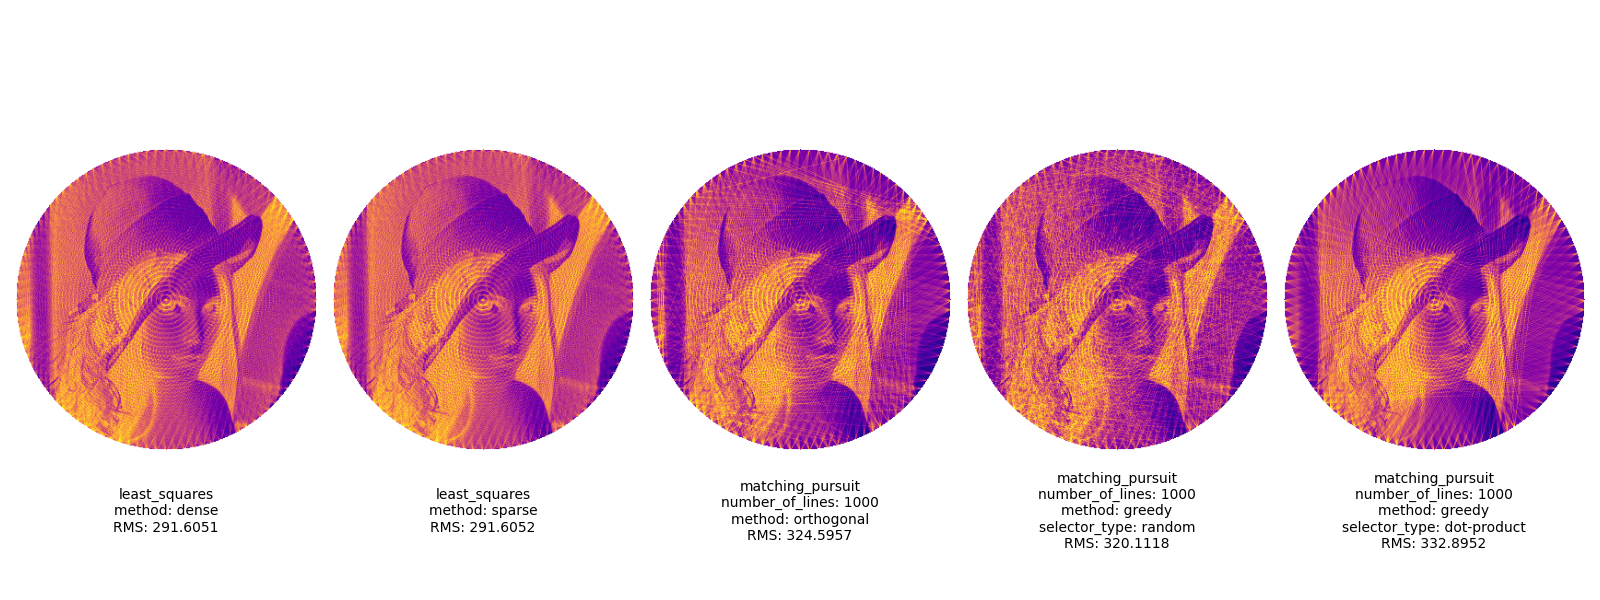
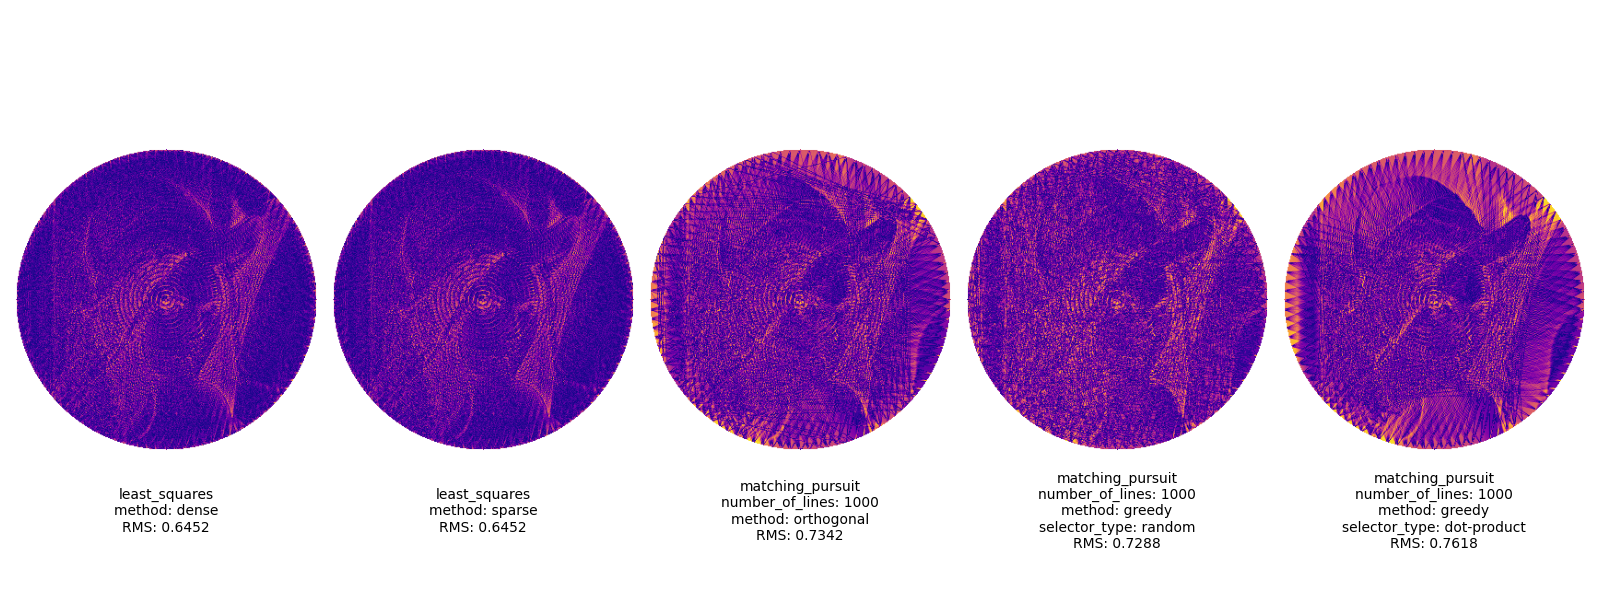
feat: line rendering experiments, fix: image normalization in analysis

diff --git a/stringart/experiments/line_rendering.py b/stringart/experiments/line_rendering.py
@@ -1,20 +1,24 @@
 import os
 from concurrent.futures import ProcessPoolExecutor, as_completed
 from pathlib import Path
-from typing import List
+from typing import Any, List
 
+import matplotlib.pyplot as plt
 import numpy as np
+from skimage.metrics import normalized_root_mse
 from stringart.cli_functions import Configuration
-from stringart.utils.image import ImageWrapper
+from stringart.utils.image import ImageWrapper, crop_image
+from stringart.utils.perf_analyzer import prepare_diff_images
 from stringart.utils.types import CropMode, MatrixRepresentation, Metadata, Rasterization, SolverType
 
 image_path = "../../imgs/lena.png"
 image = ImageWrapper.read_bw(image_path)
 shape = image.shape
 crop_mode: CropMode = "center"
-number_of_pegs = 10
+number_of_pegs = 100
 matrix_representation: MatrixRepresentation = "sparse"
 k = 500
+fontsize = 30
 
 
 class ConfigurationFactory:
@@ -55,33 +59,111 @@ class ConfigurationFactory:
         )
 
 
-def run_config(config: Configuration):
-    return config.run_config_lite()
+def run_config(config: Configuration, index: int):
+    return index, config.run_config_lite()
 
 
 def run_configs(configs: List[Configuration]) -> np.ndarray:
-    results = [[], []]
+    nconf = len(configs) // 2
+    results = [[None for _ in range(nconf)], [None for _ in range(nconf)]]
 
     with ProcessPoolExecutor() as executor:
-        future_to_config = {executor.submit(run_config, config): config for config in configs}
+        future_to_config = {executor.submit(run_config, config, index): config for index, config in enumerate(configs)}
 
         for future in as_completed(future_to_config):
             config = future_to_config[future]
 
-            result = future.result()
+            index, result = future.result()
 
             row_index = 0 if config.rasterization == "bresenham" else 1
-            results[row_index].append(result)
+            results[row_index][index % nconf] = result
 
     return np.array(results)
 
 
-def run_rendering_experiments():
-    pass
+def plot_row(axs: Any, imgs: np.ndarray, labels: List[str] | None, cmap="gray") -> None:
+    for index, ax in enumerate(axs):
+        ax.imshow(imgs[index], cmap=cmap)
+
+        if labels is not None:
+            ax.text(
+                0.5,
+                -0.1,
+                f"{labels[index]}",
+                ha="center",
+                va="center",
+                transform=ax.transAxes,
+                fontsize=fontsize,
+            )
 
 
-def analyze_experiments():
-    pass
+def analyze_results(src: np.ndarray, results: np.ndarray, cmap="gray", cmap_diff="inferno") -> None:
+    src = crop_image(src, crop_mode)
+    diff_images = ImageWrapper.scale_image(np.abs(src - ImageWrapper.scale_image(results)))
+    diff_images = np.array(
+        [
+            prepare_diff_images(list(diff_images[0]), crop_mode, cmap_diff),
+            prepare_diff_images(list(diff_images[1]), crop_mode, cmap_diff),
+        ]
+    )
+    rmses = [
+        [normalized_root_mse(src, ImageWrapper.scale_image(test_image)) for test_image in results[0]],
+        [normalized_root_mse(src, ImageWrapper.scale_image(test_image)) for test_image in results[1]],
+    ]
+    src = ImageWrapper.apply_alpha_map_bw_to_rgba(src, ImageWrapper.alpha_map(src, crop_mode))
+
+    fig, axs = plt.subplots(5, 6, figsize=(32, 28.8), constrained_layout=True)
+
+    for row in axs:
+        for ax in row:
+            ax.axis("off")
+
+    axs[0, 0].imshow(src, cmap=cmap)
+    axs[0, 0].text(
+        0.5,
+        -0.1,
+        f"Target Image",
+        ha="center",
+        va="center",
+        transform=axs[0, 0].transAxes,
+        fontsize=fontsize,
+    )
+
+    def get_rms(row, column):
+        return f"{rmses[row][column]:.4f}"
+
+    plot_row(axs[1], results[0], labels=None, cmap=cmap)
+    plot_row(
+        axs[2],
+        diff_images[0],
+        labels=[
+            f"(a) RMS = {get_rms(0, 0)}",
+            f"(b) RMS = {get_rms(0, 1)}",
+            f"(c) RMS = {get_rms(0, 2)}",
+            f"(d) RMS = {get_rms(0, 3)}",
+            f"(e) RMS = {get_rms(0, 4)}",
+            f"(f) RMS = {get_rms(0, 5)}",
+        ],
+        cmap=cmap_diff,
+    )
+
+    plot_row(axs[3], results[1], labels=None, cmap=cmap)
+    plot_row(
+        axs[4],
+        diff_images[1],
+        labels=[
+            f"(g) RMS = {get_rms(1, 0)}",
+            f"(h) RMS = {get_rms(1, 1)}",
+            f"(i) RMS = {get_rms(1, 2)}",
+            f"(j) RMS = {get_rms(1, 3)}",
+            f"(k) RMS = {get_rms(1, 4)}",
+            f"(l) RMS = {get_rms(1, 5)}",
+        ],
+        cmap=cmap_diff,
+    )
+
+    fig.show()
+    fig.savefig("../../outputs/experiments/line_rendering_comparative_analysis.png")
 
 
 def main():
@@ -110,7 +192,7 @@ def main():
     # fmt: on
 
     results = run_configs(configs)
-    print(results.shape)
+    analyze_results(1 - image, results)  # invert image back to normal bw
 
 
 if __name__ == "__main__":

diff --git a/stringart/utils/perf_analyzer.py b/stringart/utils/perf_analyzer.py
@@ -9,6 +9,7 @@ from typing import Callable, List
 
 import matplotlib.pyplot as plt
 import numpy as np
+from matplotlib.colors import Colormap
 from skimage import io
 from skimage.metrics import normalized_root_mse
 from stringart.solver import Solver
@@ -306,7 +307,8 @@ class Benchmark:
         directory = self.PLOTS_PATH / dirname
         os.makedirs(directory, exist_ok=True)
 
-        output_images = [benchmark.output_image for benchmark in benchmarks]
+        # images are scaled in [0, 1] range because the solvers return them in range [0, 255]
+        output_images = [ImageWrapper.scale_image(benchmark.output_image) for benchmark in benchmarks]
         ground_truth_image = crop_image(ground_truth_image, self.crop_mode)
 
         labels = [
@@ -316,10 +318,8 @@ class Benchmark:
 
         # plot diff images and rmses
         rmses = [normalized_root_mse(ground_truth_image, test_image) for test_image in output_images]
-        # images are scaled in [0, 1] range because the solvers return them in range [0, 255]
         diff_images = [
-            ImageWrapper.scale_image(ground_truth_image - ImageWrapper.scale_image(test_image))
-            for test_image in output_images
+            ImageWrapper.scale_image(np.abs(ground_truth_image - test_image)) for test_image in output_images
         ]
         diff_images = prepare_diff_images(diff_images, self.crop_mode)
 
@@ -370,7 +370,9 @@ class Benchmark:
         plot_bar_graph("Memory Usage", "Memory (MB)", memory_size, "orange")
 
 
-def prepare_diff_images(diff_images: list[np.ndarray], crop_mode: CropMode) -> list[np.ndarray]:
+def prepare_diff_images(
+    diff_images: list[np.ndarray], crop_mode: CropMode, colormap: str | Colormap = "plasma"
+) -> list[np.ndarray]:
     """Processes a list of difference images by applying an alpha map and colormap to each image, converting them to RGBA.
 
     Parameters
@@ -379,6 +381,8 @@ def prepare_diff_images(diff_images: list[np.ndarray], crop_mode: CropMode) -> l
         A list of 2D NumPy arrays (height, width) representing difference images. Each image should be in black-and-white (grayscale).
     crop_mode : CropMode
         The cropping mode that was used on the diff_images.
+    colormap : str or matplotlib.colors.Colormap, optional
+        The name of the Matplotlib colormap to apply or a Colormap object. Default is 'plasma'.
 
     Returns
     -------
@@ -387,12 +391,13 @@ def prepare_diff_images(diff_images: list[np.ndarray], crop_mode: CropMode) -> l
         red, green, and blue channels updated with a colormap (plasma), and the alpha channel applied from the corresponding
         alpha map based on the mode.
     """
+    cmap = plt.get_cmap(colormap) if isinstance(colormap, str) else colormap
 
     def apply_cmap_bw_to_rgb(rgba_image: np.ndarray) -> np.ndarray:
         bw_image = rgba_image[..., 0]
 
-        colormap = plt.cm.plasma(bw_image)
-        rgba_image[..., 0:3] = colormap[..., 0:3]
+        colorized = cmap(bw_image)
+        rgba_image[..., 0:3] = colorized[..., 0:3]
 
         return rgba_image
 

diff --git a/stringart/cli_functions.py b/stringart/cli_functions.py
@@ -118,7 +118,7 @@ class Configuration:
             # TODO: configurable name for analysis
             benchmark.run_analysis(
                 benchmarks=benchmarks,
-                ground_truth_image=image,
+                ground_truth_image=1 - image,
                 dirname="analysis_01",
             )
 

diff --git a/README.md b/README.md
@@ -25,17 +25,17 @@ This package provides a simple and intuitive CLI for computing string art images
 
 #### Summary of Key Commands
 
-| **Command**        | **Description**                                                                                                                  |
-|--------------------|----------------------------------------------------------------------------------------------------------------------------------|
-| `run-benchmarks`   | Run all benchmarks for StringArt.                                                                                                |
-| `run-analysis`     | Run analysis on StringArt benchmarks.                                                                                            |
-| `solve`            | Compute StringArt configurations using the specified solver and options.                                                         |
-| `--help`           | Displays help information.                                                                                                       |
-| `--image-path`     | File path to the image to process. Supported formats: PNG, JPEG. Required.                                                       |
-| `--number-of-pegs` | Number of pegs to use in computation. Default: 100.                                                                              |
-| `--crop-mode`      | Specify the crop mode for the image. Choices: `first-half`, `center`, `second-half`. Default: `center`.                          |
-| `--rasterization`  | Specify the rasterization algorithm to use for drawing the StringArt. Choices: `bresenham` or `xiaolin-wu`. Default: `bresenham` |
-| `--number-of-lines`| Specify the number of lines to select for `matching-pursuit`.                                                                    |
+| **Command**         | **Description**                                                                                                                  |
+|---------------------|----------------------------------------------------------------------------------------------------------------------------------|
+| `run-benchmarks`    | Run all benchmarks for StringArt.                                                                                                |
+| `run-analysis`      | Run analysis on StringArt benchmarks.                                                                                            |
+| `solve`             | Compute StringArt configurations using the specified solver and options.                                                         |
+| `--help`            | Displays help information.                                                                                                       |
+| `--image-path`      | File path to the image to process. Supported formats: PNG, JPEG. Required.                                                       |
+| `--number-of-pegs`  | Number of pegs to use in computation. Default: 100.                                                                              |
+| `--crop-mode`       | Specify the crop mode for the image. Choices: `first-half`, `center`, `second-half`. Default: `center`.                          |
+| `--rasterization`   | Specify the rasterization algorithm to use for drawing the StringArt. Choices: `bresenham` or `xiaolin-wu`. Default: `bresenham` |
+| `--number-of-lines` | Specify the number of lines to select for `matching-pursuit`.                                                                    |
 
 #### Solve Arguments
 
